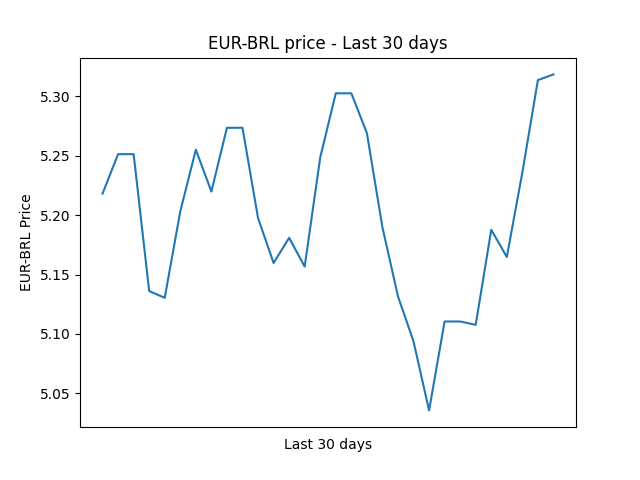
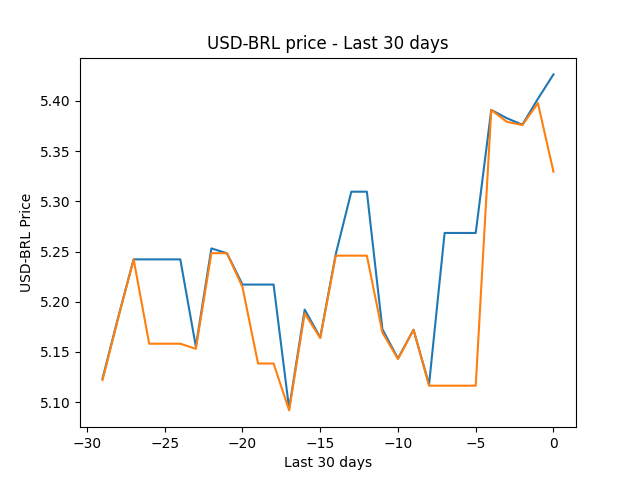
Added a convert function to convert USD and EUR to BRL, adjusted the help functino, and the welcome.

diff --git a/discord_bot.py b/discord_bot.py
@@ -7,12 +7,12 @@ import rsa
 from dotenv import load_dotenv
 import config
 import matplotlib.pyplot as plt
-import numpy
+import numpy as np
+
 
 intents = discord.Intents.all()
 client = discord.Client(intents=intents)
-
-token = config.TOKEN;
+token = config.TOKEN
 
 def get_quote():
   response = requests.get("https://zenquotes.io/api/random")
@@ -32,21 +32,23 @@ def all_currency_price():
 def last_month_usd_prices():
     response = requests.get("https://economia.awesomeapi.com.br/json/daily/USD-BRL/30")
     json_data = json.loads(response.text)   
-    currency = numpy.empty(30)
+    currency = np.empty(30)
+    currency2 = np.empty(30)
     for i in range(0,30):
         currency[i] = json_data[i]['high']
-    
-    formated_currency = [ '%.2f' % elem for elem in currency]
+    for i in range(0,30):
+        currency2[i] = json_data[i]['low']
 
-    range_days = numpy.empty(30)
+    range_days = np.empty(30)
     for i in range (0,30):
         range_days[i] = (-i)
 
+    plt.clf()
+    plt.plot(range_days,currency, label="máxima")
+    plt.plot(range_days,currency2, label="mínima")
     plt.title('USD-BRL price - Last 30 days')
     plt.xlabel('Last 30 days')
-    plt.ylabel('USD-BRL Price')    
-    plt.plot(range_days,currency)
-    plt.xticks([])
+    plt.ylabel('USD-BRL Price')
     filename =  "test.png"
     plt.savefig(filename)
     image = discord.File(filename)
@@ -55,25 +57,54 @@ def last_month_usd_prices():
 def last_month_eur_prices():
     response = requests.get("https://economia.awesomeapi.com.br/json/daily/EUR-BRL/30")
     json_data = json.loads(response.text)   
-    currency = numpy.empty(30)
+    currency = np.empty(30)
+    currency2 = np.empty(30)
     for i in range(0,30):
         currency[i] = json_data[i]['high']
-    
-    formated_currency = [ '%.2f' % elem for elem in currency]
-
-    range_days = numpy.empty(30)
+    for i in range(0,30):
+        currency2[i] = json_data[i]['low']
+ 
+    range_days = np.empty(30)
     for i in range (0,30):
         range_days[i] = (-i)
-
+        
+    plt.clf()
+    plt.plot(range_days,currency, label = "máxima")
+    plt.plot(range_days,currency2, label = "mínima")
     plt.title('EUR-BRL price - Last 30 days')
     plt.xlabel('Last 30 days')
     plt.ylabel('EUR-BRL Price')    
-    plt.xticks([])
-    plt.plot(range_days,currency)
+    plt.legend()    
     filename =  "test.png"
     plt.savefig(filename)
     image = discord.File(filename)
     return image
+
+def convert_amount(message):
+    response = requests.get("https://economia.awesomeapi.com.br/last/USD-BRL")
+    json_data = json.loads(response.text)
+    price_usd = json_data["USDBRL"]['bid']
+    response = requests.get("https://economia.awesomeapi.com.br/last/EUR-BRL")
+    json_data = json.loads(response.text)
+    price_eur = json_data["EURBRL"]['bid']
+    messageSplit = message.content.split(" ")
+    if len(messageSplit) == 3:
+        if messageSplit[1] == "USD":
+            try:
+                converted_amount = (float(price_usd) * float(messageSplit[2]))   
+                return ("R$"f'{converted_amount}')
+            except:
+                return ("Comando inválido, tente $ajuda")
+        elif messageSplit[1] == "EUR":
+            try:
+                converted_amount = (float(price_eur) * float(messageSplit[2]))
+                return ("R$"f'{converted_amount}')
+            except:
+                return ("Comando inválido, tente $ajuda")
+        else:
+            return ("Comando inválido, tente $ajuda")
+    else:
+        return ("Comando inválido, tente $ajuda")
 
 
 @client.event
@@ -85,8 +116,8 @@ async def on_message(message):
     if message.author == client.user:
         return
 
-    if message.content.startswith('$regras'):
-        await message.channel.send(f'{message.author.name} as regras do servidor são: {os.linesep}1- Respeitar a todos. {os.linesep}2- Não utilizar linguajar inadequado.')
+    if message.content.startswith('$ajuda'):
+        await message.author.send(f'{message.author.name}, Confira aqui os nossos comandos: {os.linesep}1- Para verificar a cotação diária do Dollar, Euro e Bitcoin, utilizar o comando: $currencies . {os.linesep}2- Para verificar o histórico dos últimos 30 dias, temos comandos para o dollar e o euro, sendo eles: $usd-brl-30days   e  $eur-brl-30days   .{os.linesep}3- Para realizar uma conversão para reais, temos o comando $convert USD valor e $convert EUR valor, exemplo: $convert USD 100  .  {os.linesep}4- E por fim, um comando para quando queira alguma frase famosa aleatória, para descontrair, utilieze: $quote   .')
    
     if message.content.startswith('$quote'):
         quote = get_quote()
@@ -94,7 +125,7 @@ async def on_message(message):
         
     if message.content.startswith('$currencies'):
         currencies = all_currency_price()
-        await message.channel.send(currencies)
+        await message.channel.send(currencies)        
 
     if message.content.startswith('$usd-brl-30days'):
         currency1 = last_month_usd_prices()
@@ -102,15 +133,16 @@ async def on_message(message):
         
     if message.content.startswith('$eur-brl-30days'):
         currency2 = last_month_eur_prices()
-        await message.channel.send(file = currency2)
-
-
-            
+        await message.channel.send(file = currency2)    
+           
+    if message.content.startswith('$convert'):
+        amount = convert_amount(message)
+        await message.channel.send(amount)          
         
 @client.event
 async def on_member_join(member):
     await member.send(
-        f'Olá {member.name}, bem vindo ao server!'
+        f'Olá {member.name}, bem vindo ao server! Somos um bot multi funcional, com foco em alguns comandos de cotação das principais moedas internacionais do mercado. Qualquer duvida digite $ajuda .'
     )
 
 
